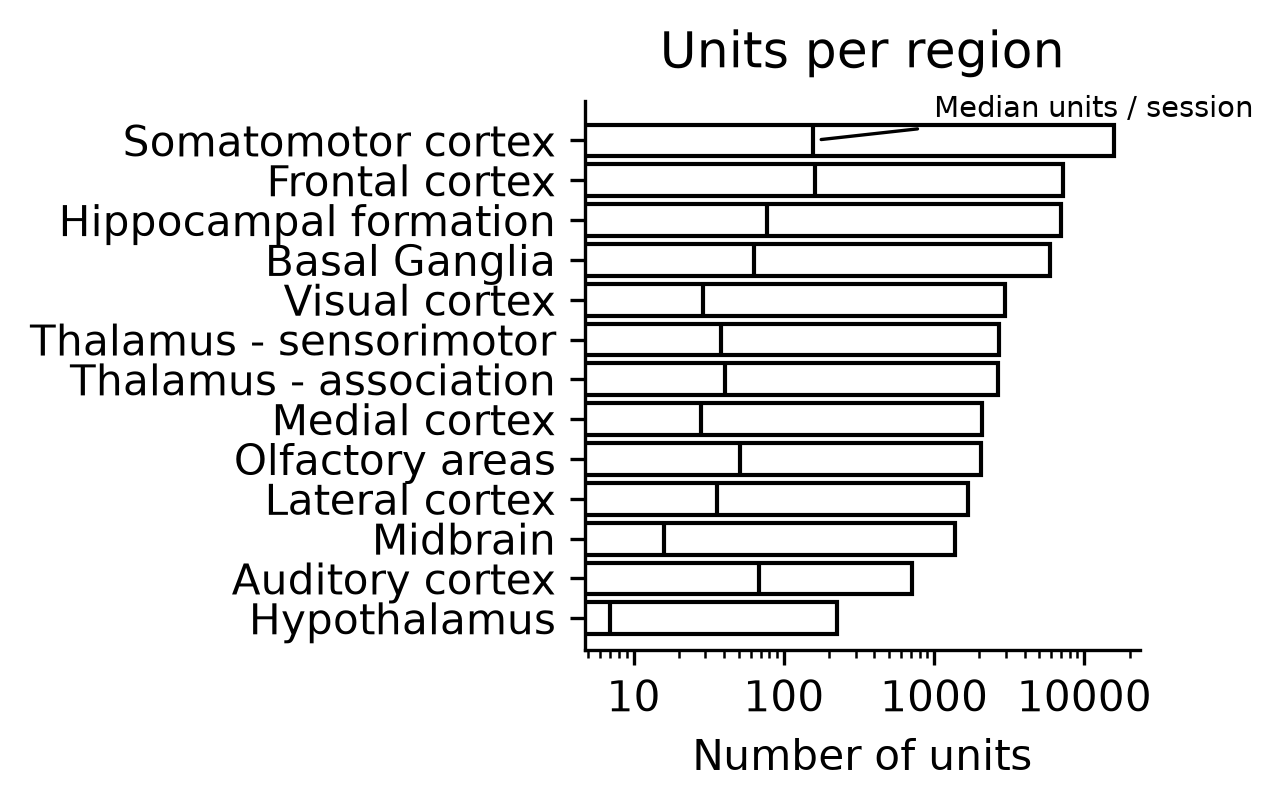
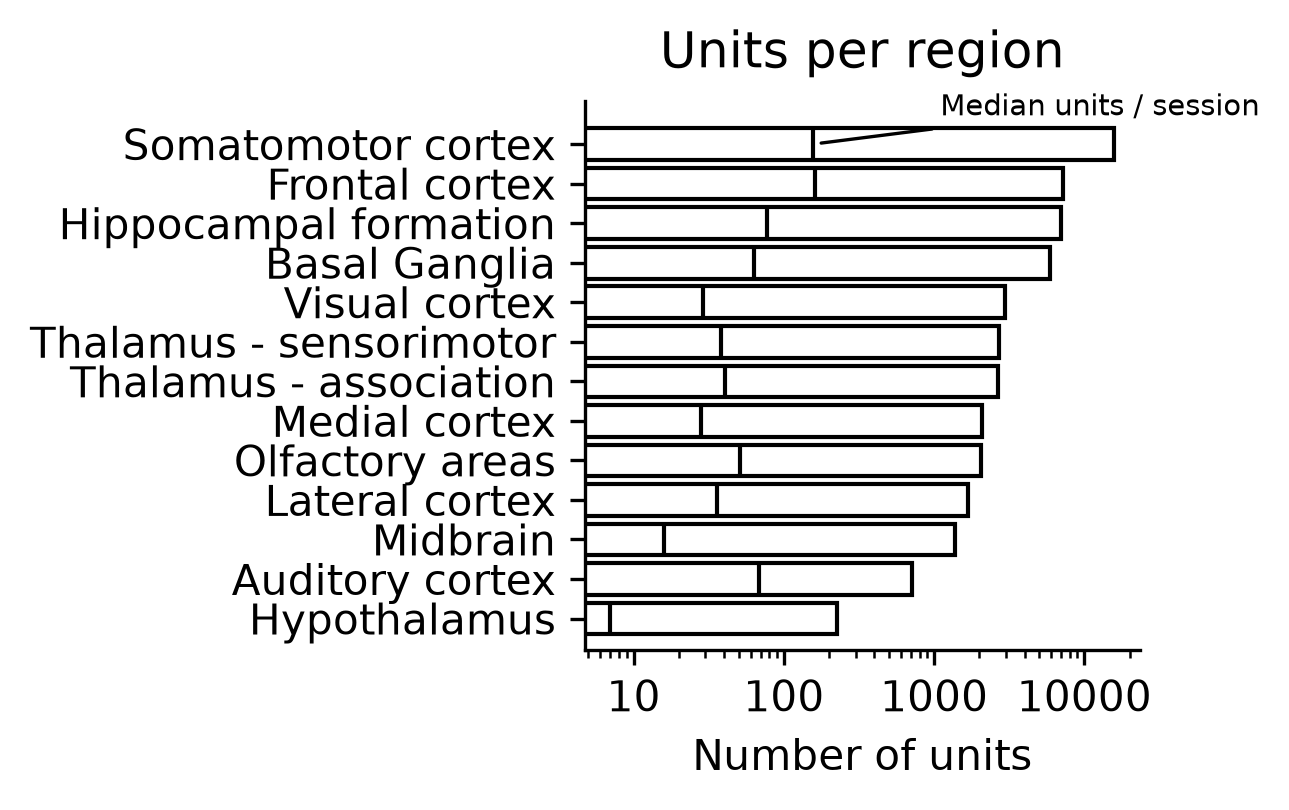
Tighten median annotation leader line

diff --git a/figures/fig1/recorded-regions/marimo_nb.py b/figures/fig1/recorded-regions/marimo_nb.py
@@ -149,15 +149,20 @@ def _(group_colors, group_order, pl, results_dir, units, plt):
     ax.spines["top"].set_visible(False)
     ax.spines["right"].set_visible(False)
     top_bar_y = len(labels) - 1
-    ax.set_ylim(-0.8, top_bar_y + 1.0)
+    ax.set_ylim(-0.8, top_bar_y + 1.1)
     ax.annotate(
         "Median units / session",
         xy=(units_per_region["median_units_per_session"][-1], top_bar_y),
-        xytext=(1000, top_bar_y + 0.78),
+        xytext=(1100, top_bar_y + 0.92),
         ha="left",
         va="center",
         fontsize=7,
-        arrowprops={"arrowstyle": "-", "color": "black", "lw": 0.8},
+        arrowprops={
+            "arrowstyle": "-",
+            "color": "black",
+            "lw": 0.8,
+            "shrinkA": 0,
+        },
         annotation_clip=False,
     )
     fig.tight_layout()
